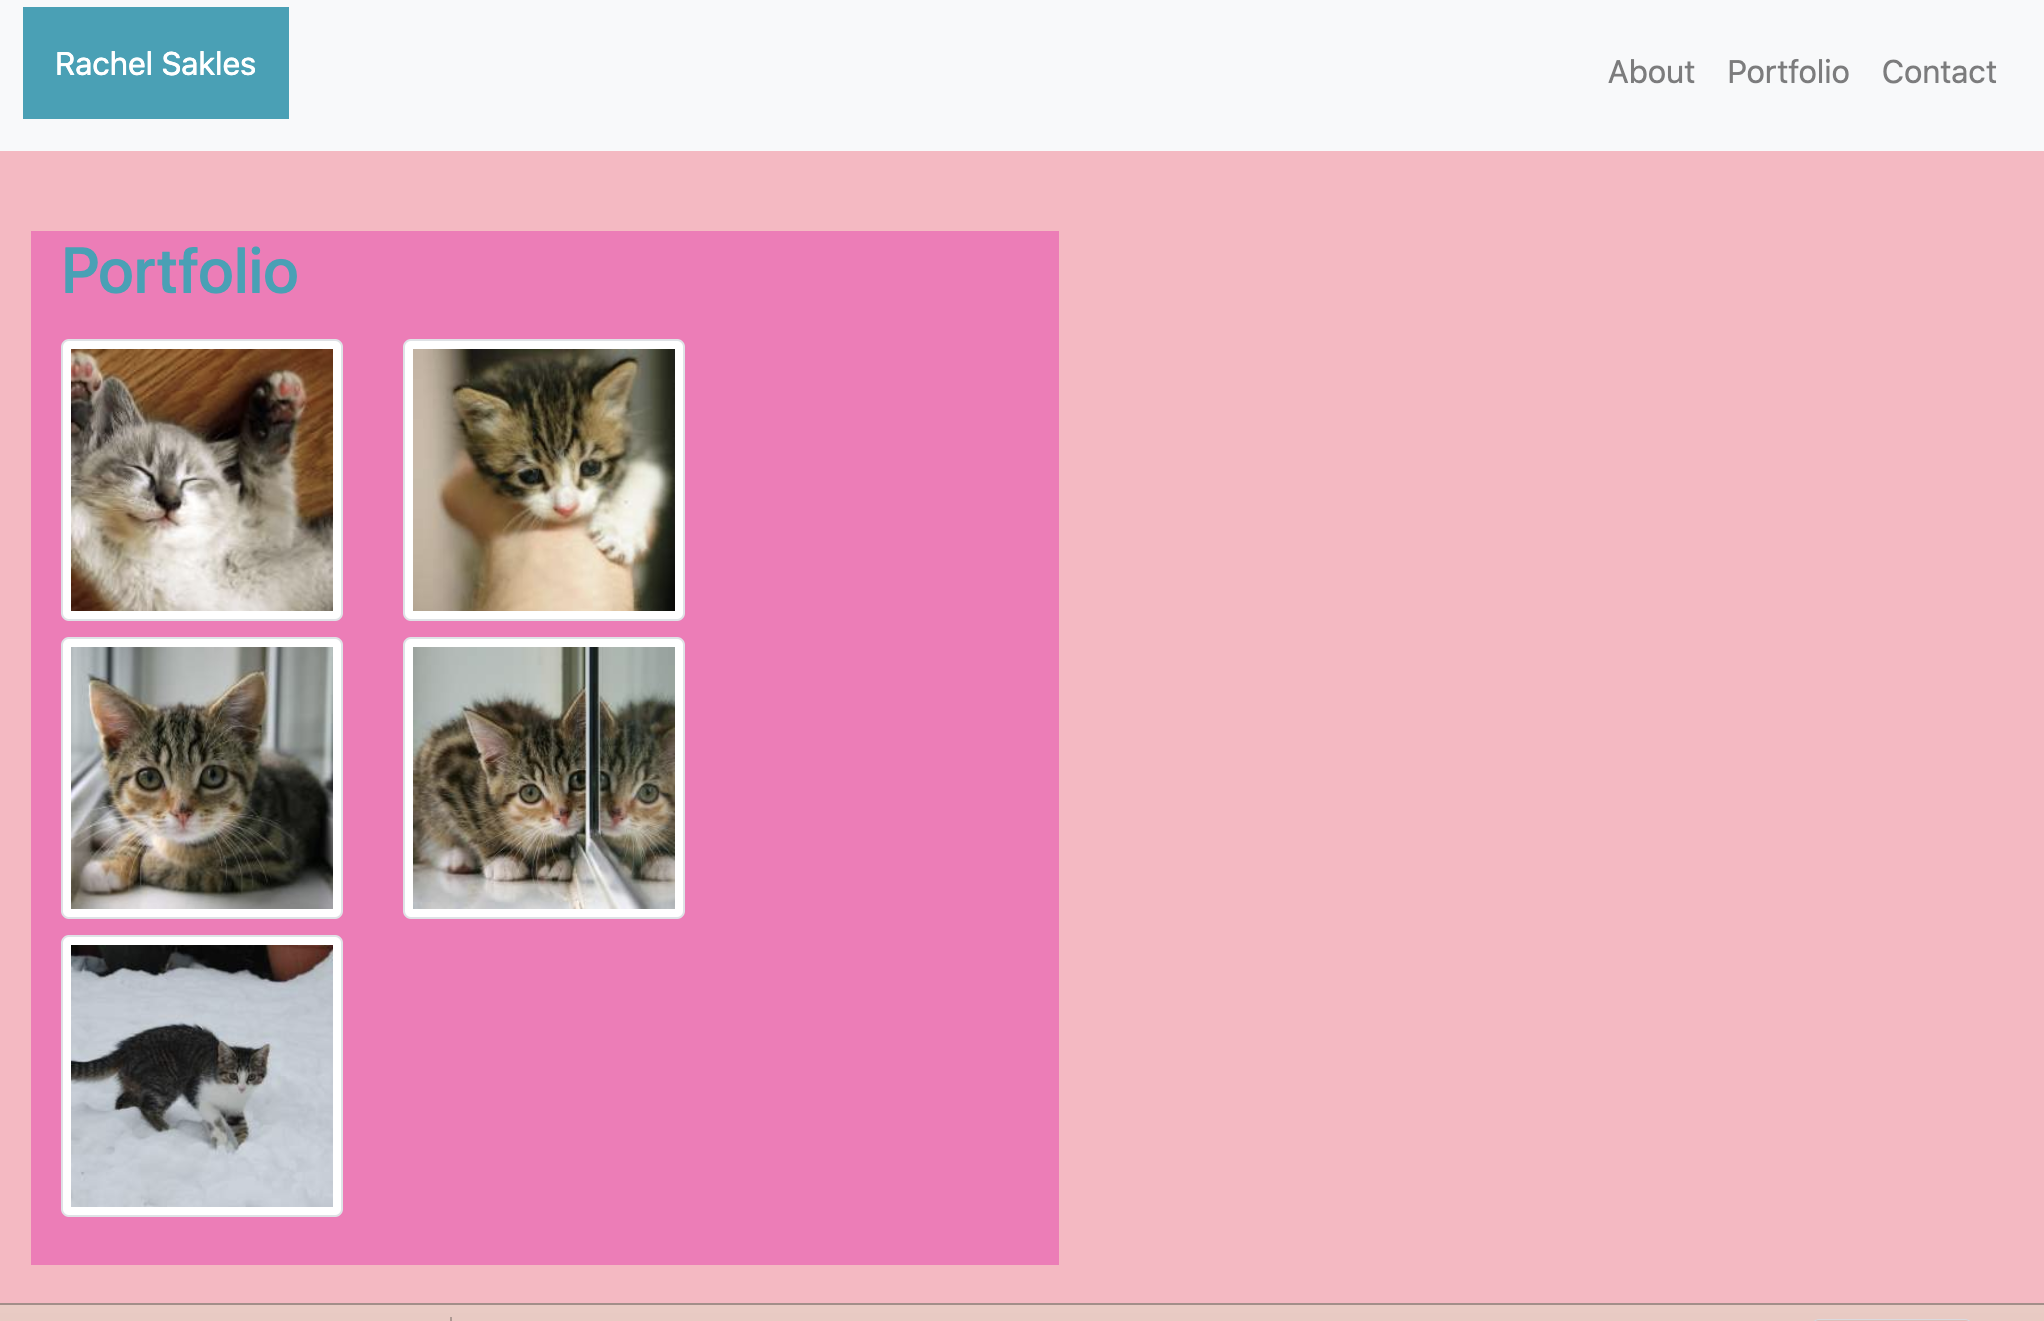
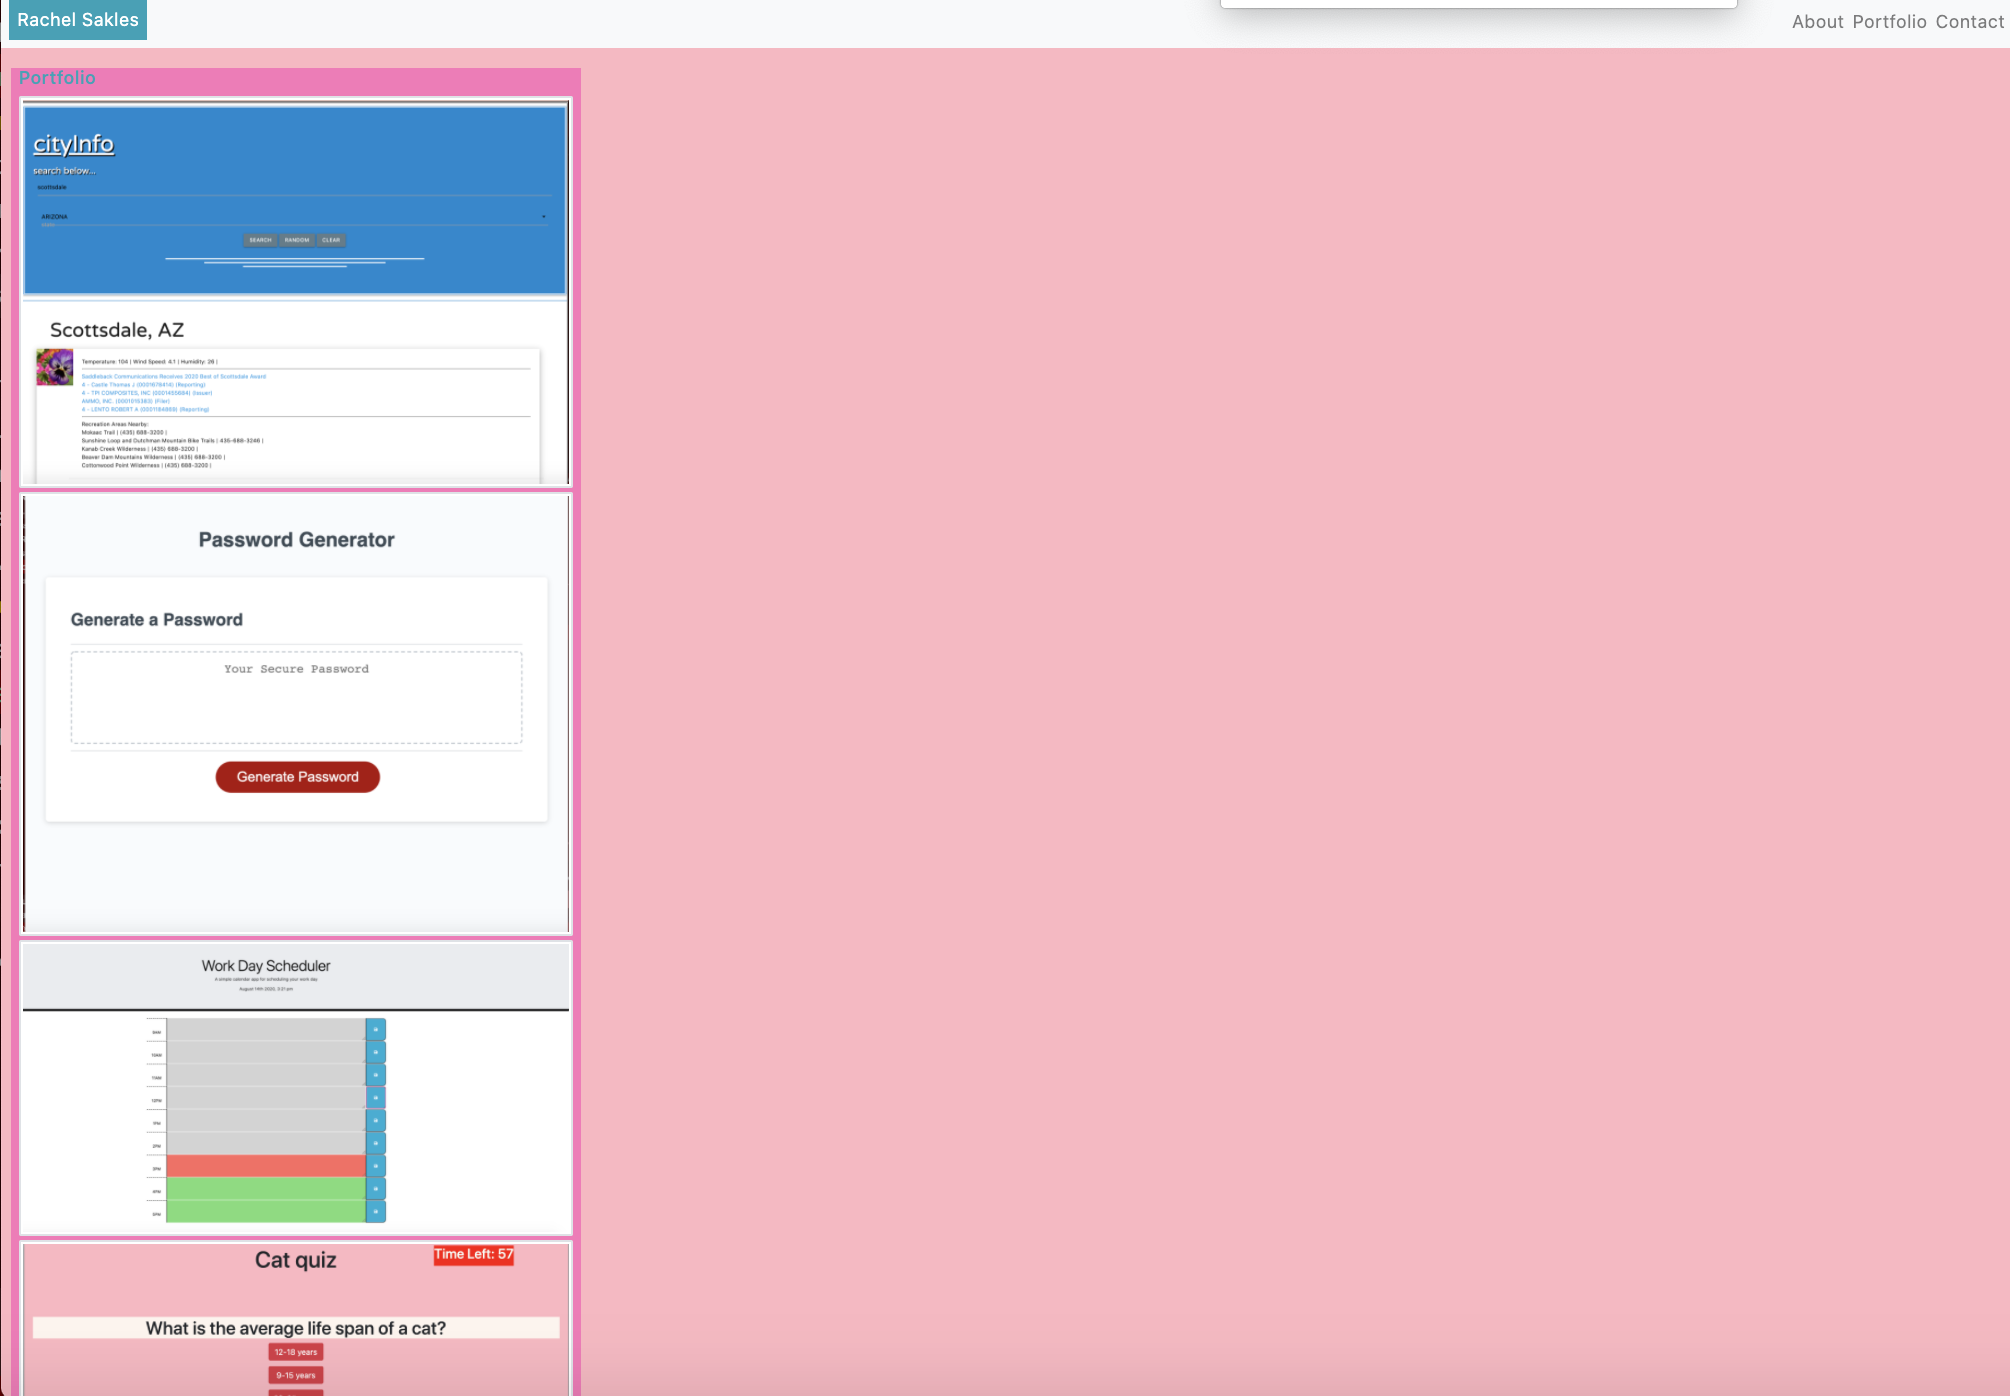
read me update

diff --git a/README.md b/README.md
@@ -5,4 +5,6 @@ I was able to style it with some of my favorite colors
 
 DEPLOYED URL: https://rachelsakles.github.io/Responsive-Portfolio/ 
 
-UPDATE: I made some changes that include an alert, that alerts the user if they submit their contact info. I also created a function that passes through an array of random cat facts.
+UPDATE: I made some changes that include an alert, that alerts the user if they submit their contact info. I also created a function that passes through an array of random facts about me. Finally, I added some of my homeworks/projects to my portfolio. 
+
+![about me](assets/aboutme.png);
